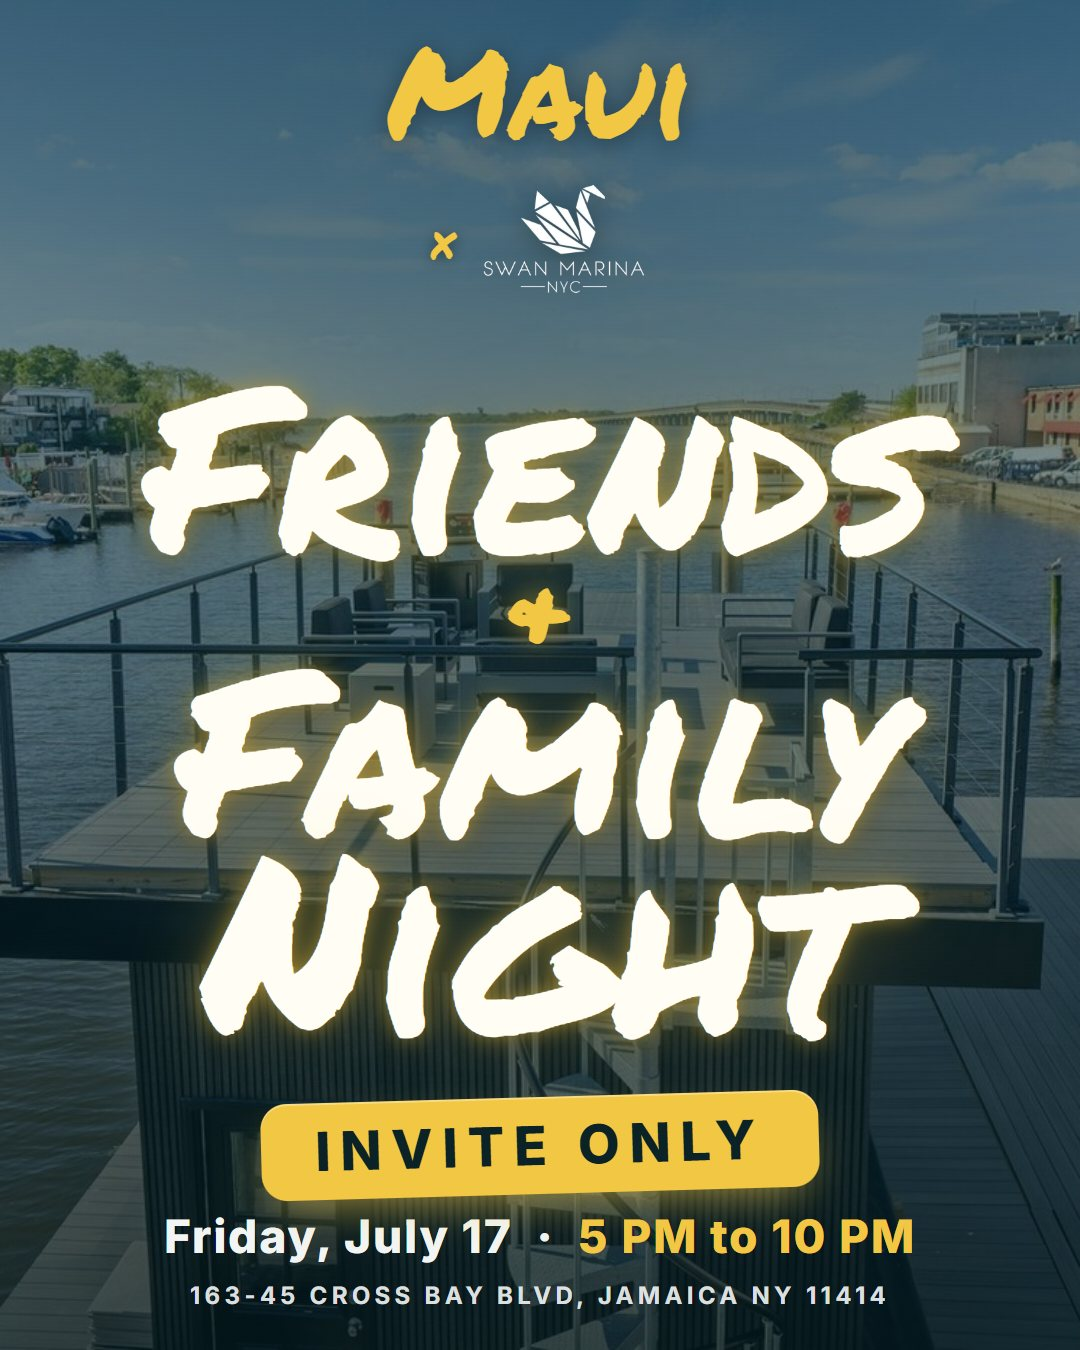
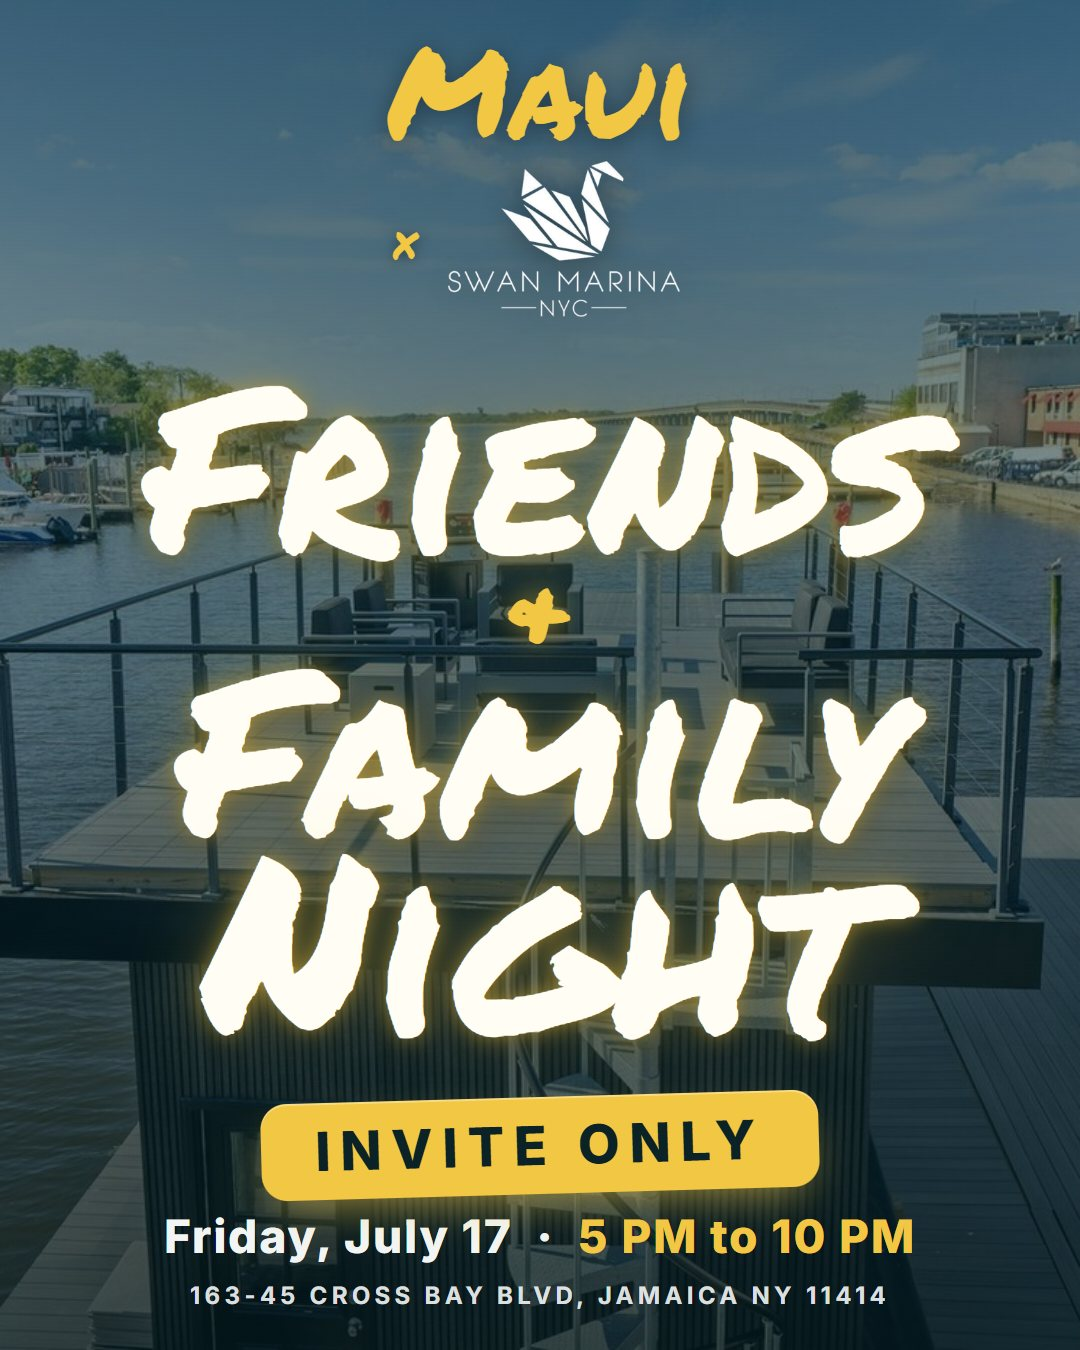
Swan Marina lockup: kill the invisible padding
The extracted lockup lived on a square canvas that was a third dead
space, so every consumer rendered it smaller than its CSS size claimed.
Re-cut at natural aspect with 3 percent padding at 2x resolution. The
hero, nav, footer, share card and flyer all inherit the honest size;
the visible logo finally matches MAUI's weight.

Claude-Session: https://claude.ai/code/session_019BzEs3UGcFuVmc4iCVu4pE

Changed region(s): [[0.3667, 0.1244, 0.6111, 0.2489]]

diff --git a/index.html b/index.html
@@ -169,7 +169,7 @@
     display:flex;align-items:center;justify-content:center;flex-wrap:wrap;
   }
   .hero .wordmark2 .swanlockup{
-    height:clamp(160px,20vw,258px);width:auto;flex:none;margin-left:10px;
+    height:clamp(150px,18vw,240px);width:auto;flex:none;margin-left:10px;
     filter:drop-shadow(0 3px 16px rgba(0,0,0,.45));
   }
   .hero .rope{
